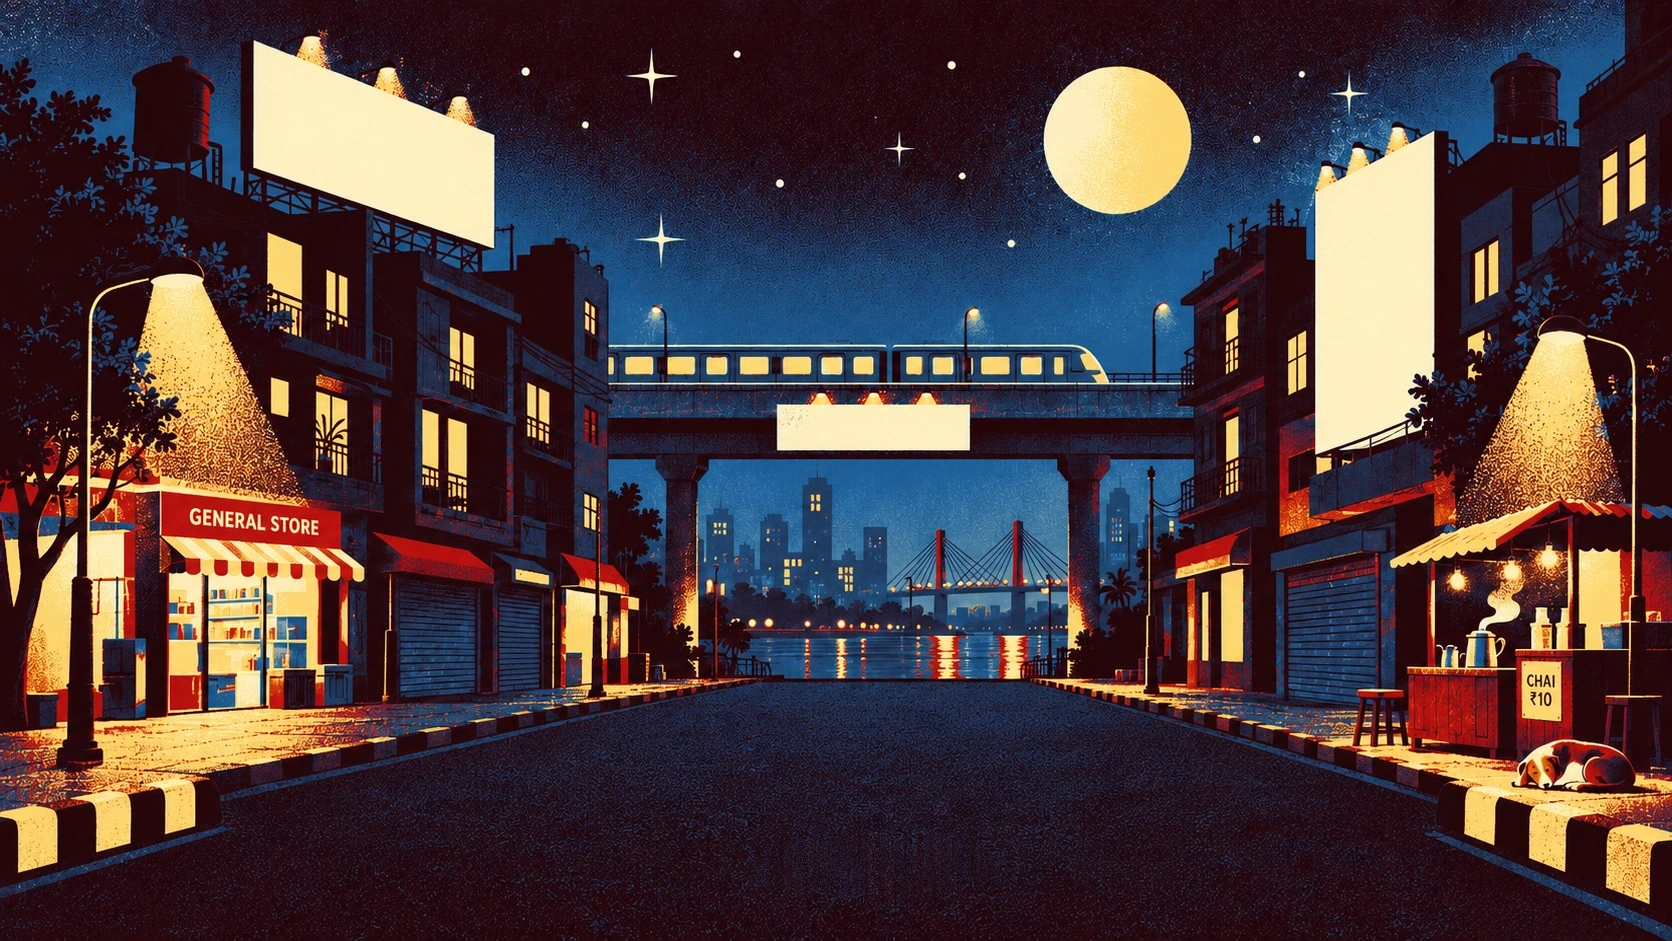
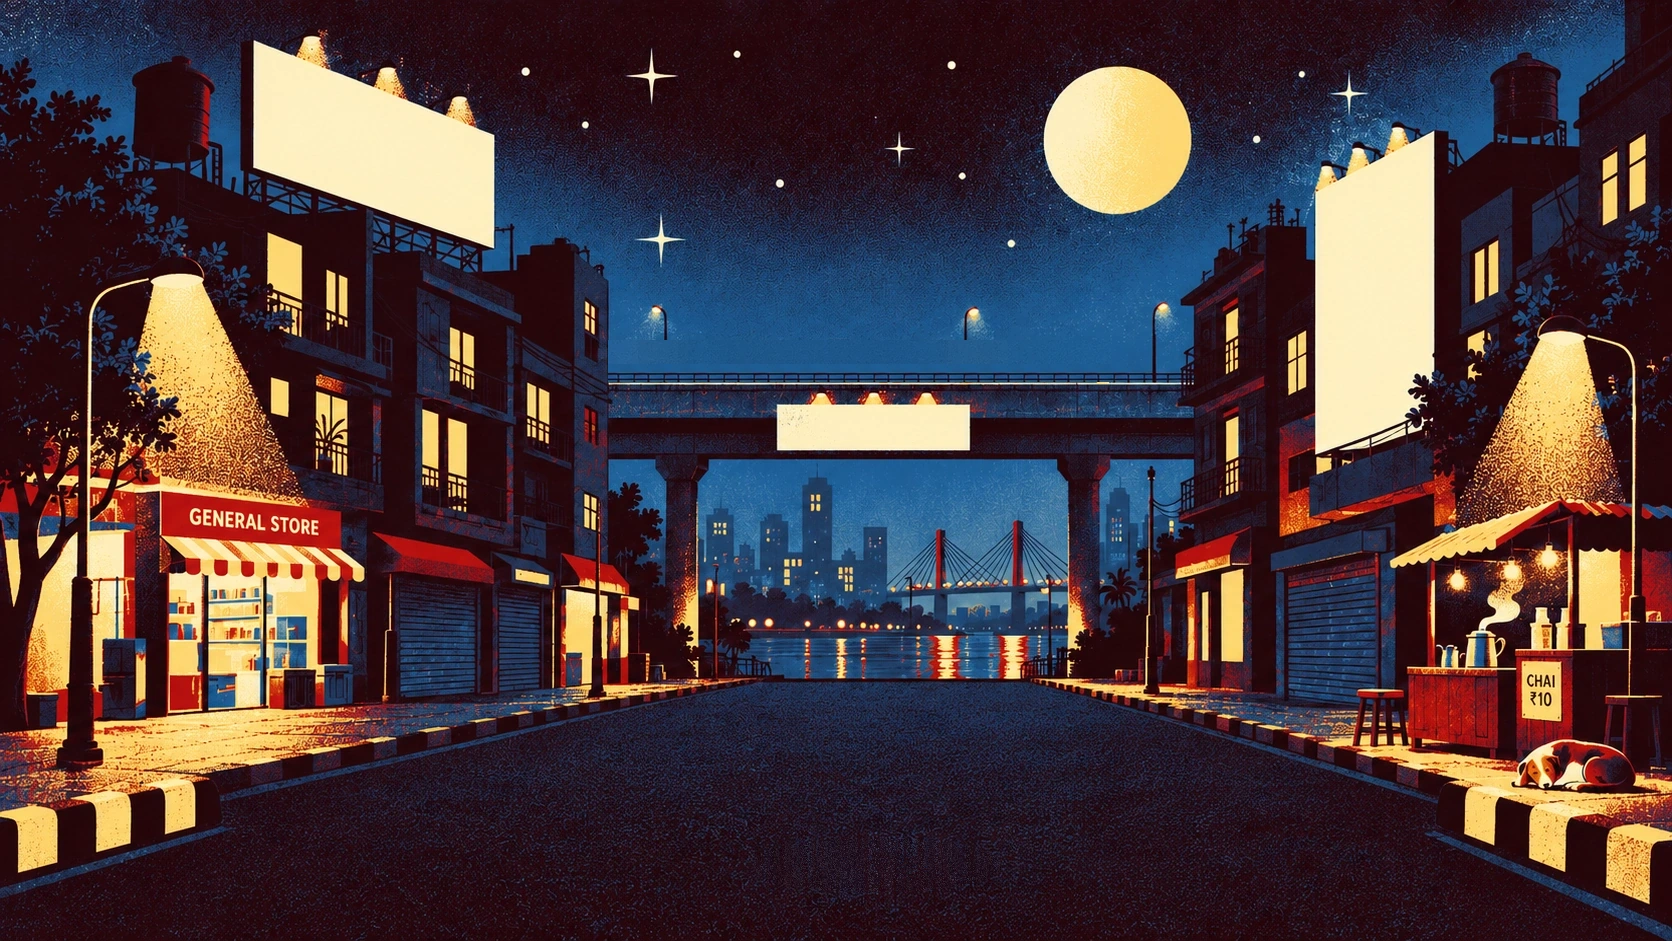
Hero: the metro crosses the overpass
The train is lifted out of the street painting (tools/build_street.py): a three-car train
built from the painted front car, sky and railing painted in where it stood, and the two
lamp posts kept as a layer in front of it. It comes out from behind the buildings on the
left, nose first, takes about ten seconds to cross and passes again every 16 seconds, in
both the ride and the Simple view. With reduced motion it rests where it was painted.

Changed region(s): [[0.3421, 0.339, 0.6842, 0.4315]]

diff --git a/index.html b/index.html
@@ -10,7 +10,7 @@
   <link rel="preconnect" href="https://api.fontshare.com" />
   <link href="https://api.fontshare.com/v2/css?f[]=satoshi@400,500,700,900&display=swap" rel="stylesheet" />
   <link href="https://fonts.googleapis.com/css2?family=Hind:wght@500;700&display=swap" rel="stylesheet" />
-  <link rel="stylesheet" href="styles.css?v=1791064955" />
+  <link rel="stylesheet" href="styles.css?v=1791065500" />
 </head>
 <body class="ride preloading" data-location="street">
   <!-- preloader: READY? SET... GO! -> logo -> pixel dissolve into the street (js/preloader.js) -->
@@ -38,7 +38,7 @@
     <canvas class="pl-blocks"></canvas>
     <p class="pl-skip">Click or press any key to skip</p>
   </div>
-  <script src="js/preloader.js?v=1791064955"></script>
+  <script src="js/preloader.js?v=1791065500"></script>
   <a class="skip-link" href="#subway">Skip to projects</a>
 
   <!-- HUD: menu, metro route map, skip toggle -->
@@ -70,6 +70,9 @@
         <!-- 1. THE STREET -->
         <section class="scene" id="street" data-location="street" aria-label="Home">
           <img class="bg-img" src="assets/scenes/street.webp" alt="An Indian street at night: a general store, a chai stall with a sleeping dog, a metro crossing the overpass, and the sea link and city skyline under a full moon." />
+          <!-- the metro crossing the overpass, and the lamp posts that stand in front of it -->
+          <div class="train-track" aria-hidden="true"><img src="assets/street/train.png" alt="" /></div>
+          <img class="train-posts" src="assets/street/posts.png" alt="" aria-hidden="true" />
           <!-- focus: a light shade over the street with soft windows at the billboards and the character -->
           <div class="street-dim" aria-hidden="true"></div>
           <div class="deco" aria-hidden="true">
@@ -226,8 +229,8 @@
   <!-- train wipe used when boarding a project -->
   <div class="train-wipe" aria-hidden="true"><div class="train-car"></div></div>
 
-  <script src="js/data.js?v=1791064955"></script>
-  <script src="js/sprite.js?v=1791064955"></script>
-  <script src="js/main.js?v=1791064955"></script>
+  <script src="js/data.js?v=1791065500"></script>
+  <script src="js/sprite.js?v=1791065500"></script>
+  <script src="js/main.js?v=1791065500"></script>
 </body>
 </html>

diff --git a/js/main.js b/js/main.js
@@ -142,6 +142,9 @@
       mid: [[777, 405], [970, 405], [970, 450], [777, 450]],      // banner on the metro overpass
     },
     leaves: [1398, 360, 44, 74],   // tree leaves in front of the tall board: x, y, w, h
+    // the metro on the overpass (tools/build_street.py): the stretch of track between the buildings
+    // (x, y, w, h), the train's length, where its nose rests when it isn't moving, the lamp posts in front
+    train: { track: [608, 342, 572, 40], len: 962, rest: 501, posts: [656, 341, 317, 42] },
     steam: [1464, 566, 52, 58],    // above the chai kettle
   };
 
@@ -293,6 +296,8 @@
         <div class="plain-hero-bg" aria-hidden="true">
           <div class="plain-art">
             <img src="assets/scenes/street.webp" alt="" />
+            ${((T) => `<div class="train-track" style="--x:${T.track[0]}px;--y:${T.track[1]}px;--w:${T.track[2]}px;--h:${T.track[3]}px;--len:${T.len}px;--rest:${T.rest - T.len}px"><img src="assets/street/train.png" alt="" /></div>
+            <img class="train-posts" src="assets/street/posts.png" alt="" style="--x:${T.posts[0]}px;--y:${T.posts[1]}px;--w:${T.posts[2]}px;--h:${T.posts[3]}px" />`)(STREET.train)}
             <a class="bb-map bb-ad bb-left" data-quad="left" data-start="0" tabindex="-1"></a>
             <a class="bb-map bb-ad bb-led" data-quad="led" data-start="1" tabindex="-1"></a>
             <a class="bb-map bb-ad bb-mid" data-quad="mid" data-start="2" tabindex="-1"></a>
@@ -514,6 +519,10 @@
     // place content inside scenes
     const art = (el, [x, y, w, h]) => setBox(el, Math.round(x * ss), Math.round(y * ss), Math.round(w * ss), Math.round(h * ss));
     art($("#street .bb-leaves"), STREET.leaves);
+    art($("#street .train-track"), STREET.train.track);
+    art($("#street .train-posts"), STREET.train.posts);
+    $("#street .train-track").style.setProperty("--len", Math.round(STREET.train.len * ss) + "px");
+    $("#street .train-track").style.setProperty("--rest", Math.round((STREET.train.rest - STREET.train.len) * ss) + "px");
     art($(".steam"), STREET.steam);
     // focus windows: one soft ellipse per billboard, plus the character's (its position is a CSS var)
     {

diff --git a/js/sprite.js b/js/sprite.js
@@ -14,7 +14,7 @@
     // below picks the frames that make two readable steps: stride, back leg lifting, legs passing,
     // reaching out again; then the same with the other arm forward.
     main: {
-      src: "assets/character/main.webp?v=1791064955", cols: 8,
+      src: "assets/character/main.webp?v=1791065500", cols: 8,
       anims: {
         idle: [0], walk: [3, 6, 1, 2, 8, 9, 13, 10],
         front: [14], front34: [15], back: [16], relaxed: [17], stride: [18], wave: [19], cheer: [20], sit: [21],
@@ -22,14 +22,14 @@
     },
     // the drop down the drain: looks down the manhole, steps off, falls, lands, fixes his glasses, grins
     drain: {
-      src: "assets/character/drain.webp?v=1791064955", cols: 8,
+      src: "assets/character/drain.webp?v=1791065500", cols: 8,
       anims: {
         peer: [0, 1, 2], stepoff: [3, 4, 5], fallStart: range(6, 11), fall: range(12, 23), fallEnd: [24, 25],
         land: range(26, 31), smile: [32], glasses: [33], stand: [34], grin: [35],
       },
     },
     // stairs: climbing (0-7) and coming down (8-15); picked by cell, see CLIMB in js/main.js
-    stairs: { src: "assets/character/stairs.webp?v=1791064955", cols: 8, anims: { climb: range(0, 7), descend: range(8, 15) } },
+    stairs: { src: "assets/character/stairs.webp?v=1791065500", cols: 8, anims: { climb: range(0, 7), descend: range(8, 15) } },
   };
   const FPS = { walk: 9, run: 13 };      // walk-cycle frames per second (run = scrolling fast)
   // he rises a little as his legs pass under him: lift per cycle frame, in box units (negative = up)

diff --git a/styles.css b/styles.css
@@ -390,6 +390,15 @@ body::after {
 .bb-ad::after { z-index: 2; }                     /* lamp wash stays on top too */
 .bb-ad:hover .ad.on .ad-img, .bb-ad:focus-visible .ad.on .ad-img { filter: brightness(1.15); }
 
+/* the metro crosses the overpass every so often: it comes out from behind the buildings on the left,
+   nose first, and slips behind the ones on the right. Without motion it rests where it was painted. */
+.train-track, .plain-art > img.train-posts, .train-posts { position: absolute; left: var(--x); top: var(--y); width: var(--w); height: var(--h); inset-inline-end: auto; bottom: auto; pointer-events: none; }
+.train-track { overflow: hidden; }
+.train-track img { position: absolute; left: 0; top: 0; width: var(--len); height: 100%; max-width: none; transform: translateX(var(--rest)); animation: metro 16s linear -3s infinite; }
+@keyframes metro {
+  0% { transform: translateX(calc(-1 * var(--len))); }
+  62%, 100% { transform: translateX(var(--w)); }      /* about ten seconds to cross, then a quiet overpass */
+}
 /* life in the street: steam off the chai kettle */
 .steam { width: var(--w); height: var(--h); }
 .steam i {

diff --git a/projects.html b/projects.html
@@ -10,8 +10,8 @@
   <link rel="preconnect" href="https://api.fontshare.com" />
   <link href="https://api.fontshare.com/v2/css?f[]=satoshi@400,500,700,900&display=swap" rel="stylesheet" />
   <link href="https://fonts.googleapis.com/css2?family=Hind:wght@500;700&display=swap" rel="stylesheet" />
-  <link rel="stylesheet" href="styles.css?v=1791064955" />
-  <link rel="stylesheet" href="project.css?v=1791064955" />
+  <link rel="stylesheet" href="styles.css?v=1791065500" />
+  <link rel="stylesheet" href="project.css?v=1791065500" />
 </head>
 <body class="project-page all-page" data-location="subway">
   <header class="hud">
@@ -34,7 +34,7 @@
 
   <div class="pixel-wipe" aria-hidden="true"></div>
 
-  <script src="js/data.js?v=1791064955"></script>
+  <script src="js/data.js?v=1791065500"></script>
   <script>
     (function () {
       const S = SITE, $ = (s) => document.querySelector(s);

diff --git a/project.html b/project.html
@@ -9,8 +9,8 @@
   <link rel="preconnect" href="https://api.fontshare.com" />
   <link href="https://api.fontshare.com/v2/css?f[]=satoshi@400,500,700,900&display=swap" rel="stylesheet" />
   <link href="https://fonts.googleapis.com/css2?family=Hind:wght@500;700&display=swap" rel="stylesheet" />
-  <link rel="stylesheet" href="styles.css?v=1791064955" />
-  <link rel="stylesheet" href="project.css?v=1791064955" />
+  <link rel="stylesheet" href="styles.css?v=1791065500" />
+  <link rel="stylesheet" href="project.css?v=1791065500" />
 </head>
 <body class="project-page" data-location="subway">
   <header class="hud">
@@ -46,7 +46,7 @@
 
   <div class="pixel-wipe" aria-hidden="true"></div>
 
-  <script src="js/data.js?v=1791064955"></script>
+  <script src="js/data.js?v=1791065500"></script>
   <script>
     (function () {
       const list = SITE.projects;

diff --git a/tools/build_street.py b/tools/build_street.py
@@ -1,5 +1,6 @@
 """Build the hero street from the illustrated source (assets/street/src/street-source.webp).
 
+The metro on the overpass is lifted out as its own image so it can move (see step 2).
 The source has a manhole painted in the middle of the road, but the manhole he drops into belongs to
 the drain art's pavement (tools/build_drain.py), so it is painted out of the road here. The leaves that
 overlap the tall billboard are cut out (assets/street/leaves.png) so they stay in front of the project ads.
@@ -36,9 +37,64 @@ for x in np.unique(xx[mask]):
         sy = top - 1 - rng.integers(0, 9) if rng.random() > t else bot + 1 + rng.integers(0, 9)
         sx = min(W - 1, max(0, x + rng.integers(-1, 2)))
         out[y, x] = a[min(H - 1, sy), sx]
-Image.fromarray(out.astype(np.uint8)).save(ROOT / "assets/scenes/street.webp", quality=93, method=6)
 
-# 2. leaves in front of the tall billboard: everything darker than the board, un-mixed from its cream
+# 2. the metro on the overpass moves, so it is lifted out of the painting:
+#    - assets/street/train.png: a three-car train built from the painted front car (tail = the front car
+#      mirrored, middle = its body without the nose)
+#    - the sky and the overpass railing are painted in where it stood
+#    - assets/street/posts.png: the two lamp posts that stand in front of it
+from scipy import ndimage as nd
+TX0, TX1, TY0, TY1 = 608, 1111, 342, 382     # the painted train: from the building's edge to its nose; roof to floor
+CAR = (768, 1110)                            # the front car, starting at the gap between cars
+BODY = 278                                   # ...and how much of it is plain body (before the nose)
+POSTS = (665, 966)                           # lamp posts in front of the train (x of each pole)
+RAIL = (1114, 1144, 364)                     # one period of the railing right of the nose (x from, to; top row)
+
+car = a[TY0:TY1, CAR[0]:CAR[1]].copy()
+px = POSTS[1] - CAR[0]                       # the post (and its box) crossing the front car: plain body over it,
+plain = a[TY0:TY1, 1010:1021]                # taken from between two windows further along
+car[:, px - 10:px + 12] = np.concatenate([plain, plain[:, ::-1]], 1)
+r, g, b = car[..., 0], car[..., 1], car[..., 2]
+lab, _ = nd.label((b > 130) & (g > 82) & (r < 70))                      # sky, reached from the crop's top right corner
+alpha = (lab != lab[0, -1]).astype(float)
+alpha[:, -8:] *= (r[:, -8:] > 150)                                       # a sliver of railing beside the nose
+alpha = nd.gaussian_filter(alpha, 0.6)
+front = np.dstack([car, alpha * 255])
+train = np.concatenate([front[:, ::-1], front[:, :BODY], front], 1)
+Image.fromarray(np.clip(train, 0, 255).astype(np.uint8)).save(ROOT / "assets/street/train.png", optimize=True)
+
+# sky where the train stood: grain from clear sky higher up, block by block, tinted to the sky just above
+tint = np.median(a[333:340, :], 0)
+tint[:TX0 + 36] = tint[TX0 + 36]                                        # (not the building's dark edge)
+tint = nd.uniform_filter1d(tint, 60, axis=0)
+for y in range(TY0 - 2, TY1, 10):
+    for x in range(TX0, TX1, 10):
+        h, w = min(10, TY1 - y), min(10, TX1 - x)
+        sx, sy = rng.integers(700, 930), rng.integers(268, 290)
+        blk = a[sy:sy + h, sx:sx + w]
+        out[y:y + h, x:x + w] = (blk - blk.mean((0, 1))) * 0.3 + tint[x:x + w].mean(0)   # the sky is smoother down here
+rx0, rx1, ry = RAIL                                                      # the railing carries on behind it
+tile = a[ry:TY1, rx0:rx1]
+for x in range(rx0 - (rx1 - rx0), TX0 - (rx1 - rx0), -(rx1 - rx0)):
+    x0 = max(x, TX0)
+    out[ry:TY1, x0:x + (rx1 - rx0)] = tile[:, x0 - x:]
+Image.fromarray(np.clip(out, 0, 255).astype(np.uint8)).save(ROOT / "assets/scenes/street.webp", quality=93, method=6)
+
+# the lamp posts, continued down from their cross-section just above the train
+PX0, PX1 = POSTS[0] - 9, POSTS[1] + 7
+posts = np.zeros((TY1 + 1 - (TY0 - 1), PX1 - PX0, 4))
+for cx in POSTS:
+    sec = a[326:338, cx - 5:cx + 6].mean(0)
+    sky = np.median(a[326:338, cx - 12:cx - 6].reshape(-1, 3), 0)
+    al = np.clip((sky.sum() - sec.sum(-1)) / (sky.sum() - 40), 0, 1)
+    posts[:, cx - 5 - PX0:cx + 6 - PX0, :3] = [14, 10, 24]
+    posts[:, cx - 5 - PX0:cx + 6 - PX0, 3] = np.clip(al * 1.4, 0, 1) * 255
+bx = POSTS[0] - PX0                                                      # the left post's junction box
+posts[357 - TY0 + 1:374 - TY0 + 1, bx - 5:bx + 4] = [14, 10, 24, 255]
+Image.fromarray(posts.astype(np.uint8)).save(ROOT / "assets/street/posts.png", optimize=True)
+print("train", train.shape[1], "x", train.shape[0], "| track x", TX0, "y", TY0, "| posts box", [PX0, TY0 - 1, PX1 - PX0, posts.shape[0]])
+
+# 3. leaves in front of the tall billboard: everything darker than the board, un-mixed from its cream
 bx0, by0, bx1, by1 = LEAVES
 reg = a[by0:by1, bx0:bx1]
 lum = reg @ np.array([0.299, 0.587, 0.114])
